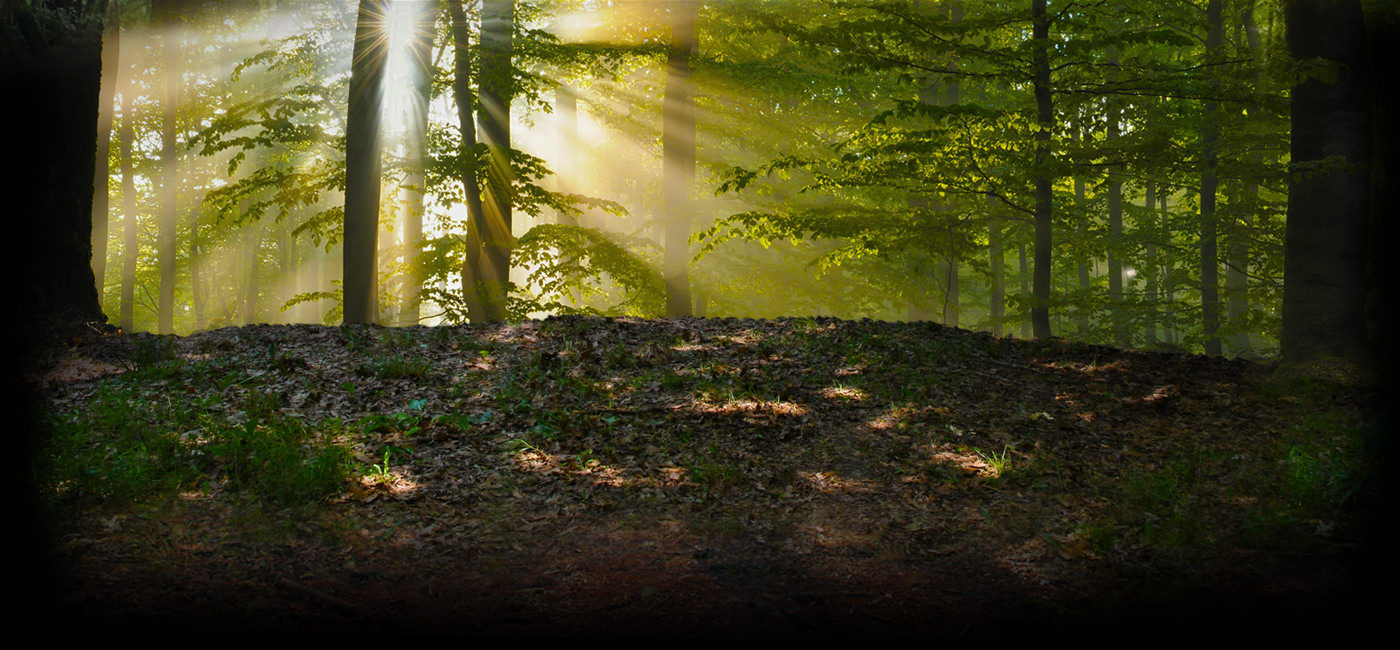
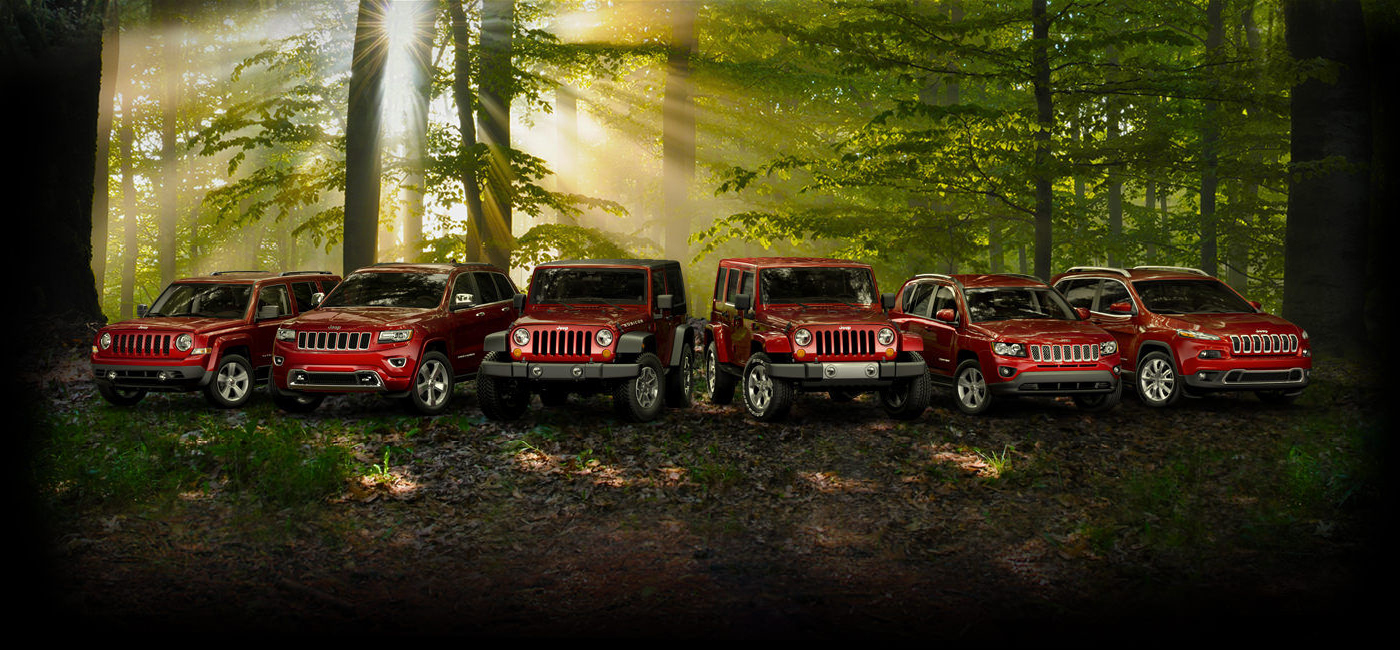
Jeep Website

Changed region(s): [[0.0307, 0.3692, 0.9521, 0.6769]]

diff --git a/assets/css/main.css b/assets/css/main.css
@@ -1,7 +1,7 @@
 /* 
 ==============================================
-CONTENT:	Project Name Here
-AUTHOR:		Your Name Here
+CONTENT:	Jeep Website
+AUTHOR:		Michelle James
 ==============================================
 
 TABLE OF CONTENTS:
@@ -11,50 +11,86 @@ TABLE OF CONTENTS:
 
 ==============================================
 */
-/* 1. Main Layout ================================= */
 * {
   box-sizing: border-box; }
 
-body {
-  font-family: Arial, Helvetica, sans-serif; }
+html, body {
+  font-family: Arial, Helvetica, sans-serif;
+  width: 100%;
+  height: 100%; }
 
 .header {
   height: 60px;
   background: linear-gradient(#333, #000);
   display: flex;
-  align-items: center; }
+  align-items: center;
+  z-index: 5; }
   .header .header__logo {
+    position: absolute;
     background-image: url(../img/sprite_nav.png);
     background-position: -288px -390px;
     width: 87px;
     height: 38px;
-    margin-left: 15.37335%;
-    margin-right: 10px; }
+    margin-left: 15.37335%; }
   .header .header__nav {
     display: flex;
-    align-items: center; }
+    align-items: center;
+    margin-left: 23.42606%; }
   .header .header__nav__items {
     color: #7E8386;
     padding: 12.5px 10px;
     margin-left: 2px;
     height: auto;
-    border-right: 2px solid black; }
+    border-right: 2px solid #000; }
   .header .header__nav__items:hover {
     color: #fff;
-    background: black;
+    background: #000;
     border-top: 2px solid #ffb302; }
   .header .header__banner {
+    position: absolute;
     background-image: url(../img/sprite_nav.png);
     background-position: -394px -375px;
     width: 66px;
     height: 94px;
-    margin-left: 16.10542%; }
+    margin-left: 79.42899%; }
 
-.hero__slideshow {
-  box-sizing: content-box;
-  margin: 0 auto;
-  width: 600px;
-  height: 400px;
+.hero {
+  display: flex;
+  width: 100%;
+  height: 100%;
+  background-image: url(../img/feature-1-bg.jpg);
+  background-size: cover;
+  background-repeat: no-repeat;
+  background-position: center; }
+
+.hero__boxes {
+  display: flex;
+  justify-content: space-around;
+  align-items: flex-end;
+  width: 100%;
+  height: 100%;
+  padding-bottom: 15px;
+  color: #9A9A9A;
+  font-weight: bold;
+  font-size: 2em; }
+
+.hero__boxes__1 {
+  display: flex;
+  justify-content: center;
+  align-items: center;
+  width: 430px;
+  height: 200px;
+  background: #fff;
+  border: 2px solid black; }
+
+.hero__boxes__2,
+.hero__boxes__3 {
+  display: flex;
+  justify-content: center;
+  align-items: center;
+  width: 310px;
+  height: 200px;
+  background: #fff;
   border: 2px solid black; }
 
 .footer {
@@ -69,7 +105,7 @@ body {
     margin-right: 8.41874%; }
   .footer .footer__items {
     font-size: 11px;
-    line-height: 15px;
+    line-height: 20px;
     color: #7E8386; }
   .footer .footer__items--first {
     font-size: 12px;
@@ -84,13 +120,5 @@ body {
     line-height: 20px;
     margin-left: 8.41874%;
     margin-right: 8.41874%; }
-
-.hero {
-  display: flex;
-  height: 57.72231%; }
-  .hero .hero__slideshow {
-    margin: 0 auto;
-    width: 100%;
-    height: 57.72231%; }
 
 /*# sourceMappingURL=main.css.map */

diff --git a/assets/js/main.js b/assets/js/main.js
@@ -1,54 +1,21 @@
 console.log("Hello World from main.js!");
 
+var $hero = document.querySelector('.hero');
+var bgImage = 2;
 
-
-var currentSlide = -1;
-
-var imageData = [
-
-	{
-		filename:"assets/img/feature-1-bg.jpg",
-		title:"donut1",
-		description:"pink donuts"
-	},
-
-	{
-		filename:"assets/img/feature-2-bg.jpg",
-		title:"donut2",
-		description:"5 donuts"
-	},
-			
-];
-
-var $slideshow = document.querySelector("#hero__slideshow");
-
-var makeSlide = function(){
-
-	var $slide = document.createElement("img");
-	$slide.setAttribute("src", imageData[currentSlide].filename);
-	$slideshow.appendChild($slide);
-}	
-
-var removeSlide = function(){
-	
-	while ($slideshow.children.length) {
-		$slideshow.removeChild($slideshow.children[0]);
-	}
-}
-
-
-var advancedSlideshow = function(){
-	removeSlide();
-	currentSlide++;
-
-	if (currentSlide > 2) {
-		currentSlide = 0;
+function changeImage() {
+	if (bgImage == 3 ) {
+		bgImage = 1;
 	}
 
-	makeSlide();
+	$hero.style.opacity = 0.7;
+	$hero.style.backgroundImage = "url(assets/img/feature-" + bgImage + "-bg.jpg)";
+	console.log($hero.style.backgroundImage)
+	$hero.style.opacity = 1;
+	bgImage++;
 }
 
-setInterval(advancedSlideshow, 2000);
+setInterval(changeImage, 4000);
 
 
 

diff --git a/assets/sass/main.scss b/assets/sass/main.scss
@@ -1,7 +1,7 @@
 /* 
 ==============================================
-CONTENT:	Project Name Here
-AUTHOR:		Your Name Here
+CONTENT:	Jeep Website
+AUTHOR:		Michelle James
 ==============================================
 
 TABLE OF CONTENTS:
@@ -12,43 +12,20 @@ TABLE OF CONTENTS:
 ==============================================
 */
 
-
-
-/* 1. Main Layout ================================= */
-
 * {
 	box-sizing: border-box;
 }
 
-body {
+html, body {
 	font-family: Arial, Helvetica, sans-serif;
+	width: 100%;
+	height: 100%;
 }
 
-$text-color: #7E8386; // Grey
-$dark__color: black; //black
-$color-brand: #ffb302; // Gold
-$color-accent: #ff9d01; // Darker Gold
-
+@import "variables";
 @import "header";
 @import "carousel";
 @import "footer";
-
-
-
-.hero {
-	display: flex;
-	height: 740 / 1282 * 100%;
-
-	.hero__slideshow {
-		// box-sizing: content-box;
-		margin: 0 auto;
-		width: 100%;
-		height: 740 / 1282 * 100%;
-
-	}
-
-}
-
 
 
 

diff --git a/assets/sass/_header.scss b/assets/sass/_header.scss
@@ -3,19 +3,21 @@
 	background: linear-gradient(#333, #000);
 	display: flex;
 	align-items: center;
+	z-index: 5;
 
 	.header__logo {
-	  background-image: url(../img/sprite_nav.png);
-	  background-position: -288px -390px;
-	  width: 87px;
-	  height: 38px;
-	  margin-left: 210 / 1366 * 100%;
-	  margin-right: 10px;
+		position: absolute;
+		background-image: url(../img/sprite_nav.png);
+		background-position: -288px -390px;
+		width: 87px;
+		height: 38px;
+		margin-left: 210 / 1366 * 100%;
 	}
 
 	.header__nav {
 		display: flex;
 		align-items: center;
+	  margin-left: 320 / 1366 * 100%;
 	}
 
 	.header__nav__items {
@@ -33,10 +35,11 @@
 	}
 
 	.header__banner {
+		position: absolute;
 		background-image: url(../img/sprite_nav.png);
 		background-position: -394px -375px;
 		width: 66px;
 		height: 94px;
-		margin-left: 220 / 1366 * 100%;
+		margin-left: 1085 / 1366 * 100%;
 	}
 }

diff --git a/assets/sass/_carousel.scss b/assets/sass/_carousel.scss
@@ -1,7 +1,38 @@
-.hero__slideshow {
-	box-sizing: content-box;
-	margin: 0 auto;
-	width: 600px;
-	height: 400px;
+.hero {
+	display: flex;
+	width: 100%;
+	height: 100%;
+	background-image: url(../img/feature-1-bg.jpg);
+	background-size: cover;
+	background-repeat: no-repeat;
+	background-position: center;
+}
+
+.hero__boxes {
+	display: flex;
+	justify-content: space-around;
+	align-items: flex-end;
+	width: 100%;
+	height: 100%;
+	padding-bottom: 15px;
+	color: #9A9A9A;
+	font-weight: bold;
+	font-size: 2em;
+}
+
+.hero__boxes__1 {
+	@include centerFlex;
+	width: 430px;
+	height: 200px;
+	background: #fff;
+	border: 2px solid black;
+}
+
+.hero__boxes__2,
+.hero__boxes__3 {
+	@include centerFlex;
+	width: 310px;
+	height: 200px;
+	background: #fff;
 	border: 2px solid black;
 }

diff --git a/index.html b/index.html
@@ -33,12 +33,11 @@
 		</header>
 
 		<section class="hero">
-		  <figure id="hero__slideshow">
-	<!-- 	    <img src="assets/img/feature-1-bg.jpg">
-		   	<img src="assets/img/feature-2-bg.jpg"> -->
-		  </figure>
-			<span style="float:left" class="ss-icon" onclick="galleryspin('-')">&lt;</span>
-			<span style="float:right" class="ss-icon" onclick="galleryspin('')">&gt;</span>
+		  <div class="hero__boxes">
+			  <div class="hero__boxes__1">430x200</div>
+			  <div class="hero__boxes__2">310x200</div>
+			  <div class="hero__boxes__3">310x200</div>
+		  </div>
 		</section>
 
 		<footer class="footer">

diff --git a/assets/sass/_variables.scss b/assets/sass/_variables.scss
@@ -1,0 +1,10 @@
+$text-color: #7E8386; // Grey
+$dark__color: #000; //black
+$color-brand: #ffb302; // Gold
+$color-accent: #ff9d01; // Darker Gold
+
+@mixin centerFlex {
+	display:flex;
+	justify-content:center;
+	align-items:center;
+}

diff --git a/assets/sass/_footer.scss b/assets/sass/_footer.scss
@@ -13,7 +13,7 @@
 
 		.footer__items {
 			font-size: 11px;
-			line-height: 15px;
+			line-height: 20px;
 			color: #7E8386;
 		}
 
